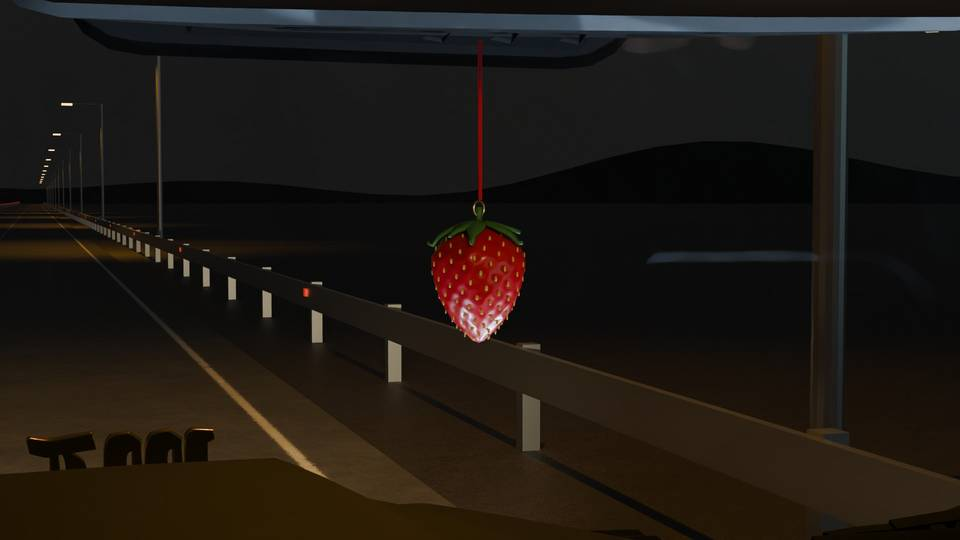
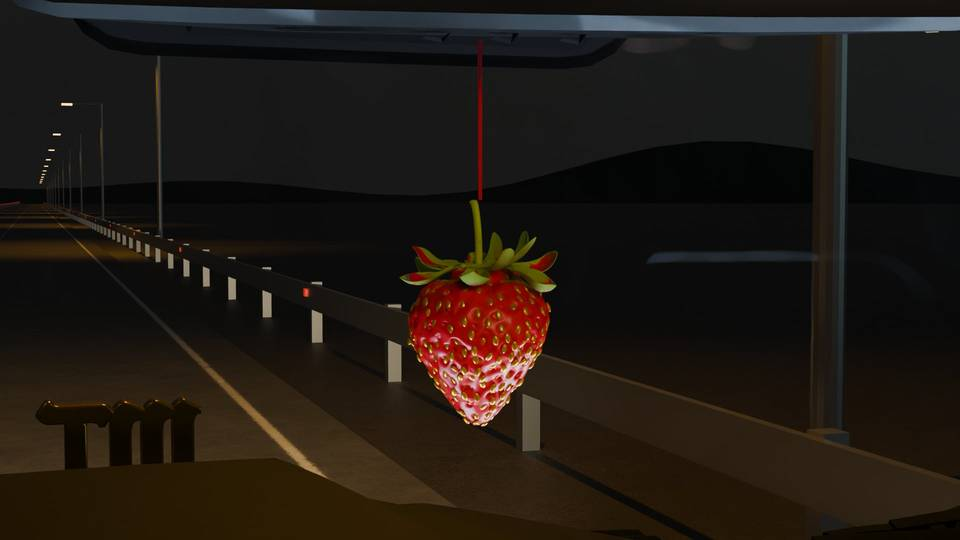
docs(utileria): página y stills con la fresa B y el MT en Pirata One
Stills finales de la escena 1, 4, 6, la barra, el emblema y la fresa con los
defaults del dueño (fresa B, Pirata One de 21.5 cm), medidas.tsv y la página
(scripts/props-hoja.py ahora genera también las hojas de la pasada 2: emblema
tamaño x letra y fresa con semillas 3D). Se quitan de la página las variantes
de fresa de la ronda 1.

La excepción de la regla 1 en la escena 1 (2.17 % del camino, 5 px sobre el 2 %)
queda escrita con las palabras del dueño en la página, props.md y
docs/fresa-semillas.md, con la pasada 2 de las semillas y sus comandos.

Claude-Session: https://claude.ai/code/session_01JDrAz8p1av2rw8yZkgwU9G

Changed region(s): [[0.4062, 0.3556, 0.5938, 0.8], [0.0312, 0.7407, 0.2188, 0.8889]]

diff --git a/docs/design/props-placement/index.html b/docs/design/props-placement/index.html
@@ -21,12 +21,8 @@ dt { font-weight:600; color:var(--fg); } dd { margin:0; }
 imagen abre el still completo (1920×1080, 64 muestras, de noche). Los números salen de una sonda por rayos desde la cámara de cada
 escena (<code>scripts/props-medir.py</code>); el look se juzga en los stills. Reglas: <a href="reglas.md">reglas.md</a>; props:
 <a href="props.md">props.md</a>; fotos: <a href="referencias.md">referencias.md</a>.</p>
-<section id="escenas"><h2>Las cuatro escenas con lo elegido (B)</h2><p>B en todas las escenas, sin marquesina, sin cuernos; en el camión las lámparas reales del alerón y el MT dorado en el cofre. La luz bajo la carrocería sigue ámbar. Montón de la caja: caja3 A (#34 sigue abierta). Escena 4 con la luz de relleno (sigue abierta).</p><div class="fila"><figure><a href="stills/pp1-b.jpg"><img src="mini/pp1-b.jpg" alt="Escena 1 · Cabina (MÚSICA)" width="960" height="540" loading="lazy"></a><figcaption><strong>Escena 1 · Cabina (MÚSICA)</strong><dl><dt>Regla 1 · zona tapada</dt><dd>0.79 % · PASS</dd><dt>Reglas 2-3 · props que se leen</dt><dd>1 (P3) · PASS</dd><dt>Regla 4 · luz total: zona vs prop con luz</dt><dd>22.2 vs nan · n/a</dd></dl></figcaption></figure><figure><a href="stills/pp2-b.jpg"><img src="mini/pp2-b.jpg" alt="Escena 2 · Caja (REDES)" width="960" height="540" loading="lazy"></a><figcaption><strong>Escena 2 · Caja (REDES)</strong><dl><dt>Regla 1 · zona tapada</dt><dd>0.0 % · PASS</dd><dt>Reglas 2-3 · props que se leen</dt><dd>1 (P9) · PASS</dd><dt>Regla 4 · luz total: zona vs prop con luz</dt><dd>223.9 vs 54.0 · PASS</dd></dl></figcaption></figure><figure><a href="stills/pp4-b.jpg"><img src="mini/pp4-b.jpg" alt="Escena 4 · Costado (LA BANDA)" width="960" height="540" loading="lazy"></a><figcaption><strong>Escena 4 · Costado (LA BANDA)</strong><dl><dt>Regla 1 · zona tapada</dt><dd>0.0 % · PASS</dd><dt>Reglas 2-3 · props que se leen</dt><dd>3 (P1,P7,P9) · PASS</dd><dt>Regla 4 · luz total: zona vs prop con luz</dt><dd>57.5 vs 23.1 · PASS</dd></dl></figcaption></figure><figure><a href="stills/pp6-b.jpg"><img src="mini/pp6-b.jpg" alt="Escena 6 · Placa (CONTRATACIÓN)" width="960" height="540" loading="lazy"></a><figcaption><strong>Escena 6 · Placa (CONTRATACIÓN)</strong><dl><dt>Regla 1 · zona tapada</dt><dd>0.0 % · PASS</dd><dt>Reglas 2-3 · props que se leen</dt><dd>2 (P1,P2) · PASS</dd><dt>Regla 4 · luz total: zona vs prop con luz</dt><dd>45.4 vs 10.4 · PASS</dd></dl></figcaption></figure></div></section><section id="barra"><h2>Barra de luces: la pieza real</h2><p>El G 63 AMG 6×6 de fábrica lleva una lámpara LED en cada esquina del alerón del techo: mica clara sobre caja negra con cinco copas redondas (fotos 12b y 12c en referencias.md). El modelo del camión ya tiene esas dos cavidades, apagadas; aquí se llenan y se encienden en blanco, con su haz hacia el camino. Al lado, la otra lectura: la barra de dos pisos del Brabus XLP 800 6×6 (foto 12), que es una pieza del G nuevo (W465), no de este camión.</p><div class="fila"><figure><a href="stills/pp-barra.jpg"><img src="mini/pp-barra.jpg" alt="Se queda · lámparas de fábrica del 6×6" width="960" height="540" loading="lazy"></a><figcaption><strong>Se queda · lámparas de fábrica del 6×6</strong></figcaption></figure><figure><a href="stills/pv-barra-xlp.jpg"><img src="mini/pv-barra-xlp.jpg" alt="Variante · dos pisos estilo Brabus XLP 800" width="960" height="540" loading="lazy"></a><figcaption><strong>Variante · dos pisos estilo Brabus XLP 800</strong></figcaption></figure><figure><a href="stills/pv-6-xlp.jpg"><img src="mini/pv-6-xlp.jpg" alt="Variante XLP en la escena 6 (para la regla 4)" width="960" height="540" loading="lazy"></a><figcaption><strong>Variante XLP en la escena 6 (para la regla 4)</strong><dl><dt>Regla 1 · zona tapada</dt><dd>0.0 % · PASS</dd><dt>Reglas 2-3 · props que se leen</dt><dd>2 (P1,P2) · PASS</dd><dt>Regla 4 · luz total: zona vs prop con luz</dt><dd>45.4 vs 59.0 · FAIL</dd></dl></figcaption></figure></div></section><section id="emblema"><h2>Emblema MT dorado en el cofre</h2><p>Letra gótica Grenze Gotisch ExtraBold (licencia OFL, libre), extruida y biselada, en el oro de la marca (DESIGN.md, oklch 78 % 0.15 85) como metal pulido. En vez de los cuernos.</p><div class="fila"><figure><a href="stills/pp-emblema.jpg"><img src="mini/pp-emblema.jpg" alt="Se queda · de pie, atornillado al frente del cofre" width="960" height="540" loading="lazy"></a><figcaption><strong>Se queda · de pie, atornillado al frente del cofre</strong></figcaption></figure><figure><a href="stills/pv-emblema-plano.jpg"><img src="mini/pv-emblema-plano.jpg" alt="Variante · plano sobre el cofre" width="960" height="540" loading="lazy"></a><figcaption><strong>Variante · plano sobre el cofre</strong></figcaption></figure></div></section><section id="fresa"><h2>La fresa del espejo</h2><p>Un solo archivo intercambiable: blender/props/fresa.glb (Z arriba, metros, origen en la argolla). Si llega un modelo de un amigo, se reemplaza ese archivo y el script lo escala a 4.1 cm.</p><div class="fila"><figure><a href="stills/pp-fresa.jpg"><img src="mini/pp-fresa.jpg" alt="Se queda · fruta (semillas en hoyuelos, cáliz, barniz)" width="960" height="540" loading="lazy"></a><figcaption><strong>Se queda · fruta (semillas en hoyuelos, cáliz, barniz)</strong></figcaption></figure><figure><a href="stills/pv-fresa-resina.jpg"><img src="mini/pv-fresa-resina.jpg" alt="Variante · resina con oro" width="960" height="540" loading="lazy"></a><figcaption><strong>Variante · resina con oro</strong></figcaption></figure><figure><a href="stills/pv-fresa-peluche.jpg"><img src="mini/pv-fresa-peluche.jpg" alt="Variante · peluche de fieltro" width="960" height="540" loading="lazy"></a><figcaption><strong>Variante · peluche de fieltro</strong></figcaption></figure><figure><a href="stills/fresa-estudio.jpg"><img src="mini/fresa-estudio.jpg" alt="Las tres en estudio" width="960" height="400" loading="lazy"></a><figcaption><strong>Las tres en estudio</strong></figcaption></figure></div></section>
-<section id="preguntas"><h2>Preguntas abiertas</h2><ol>
-<li>Emblema: (a) de pie, del tamaño actual (letras de unos 14 cm): en la escena 6 ocupa 0.088 % del cuadro, bajo la línea de 0.1 % de la regla 2, así que ahí se ve como un brillo dorado y se lee en los detalles; (b) más grande, para que se lea en la escena 6 (letras de unos 18 cm, casi la mitad del ancho del cofre al frente); o (c) plano sobre el cofre (no se ve desde la cámara baja de la escena 6).</li>
-<li>Letra del emblema: (a) se queda Grenze Gotisch (su M mayúscula parece una m minúscula: se puede leer «mt») o (b) una gótica de mayúsculas más claras, como Pirata One (OFL, la de DESIGN.md).</li>
-<li>Fresa: (a) fruta, (b) resina con oro o (c) peluche; o se espera el modelo del amigo (se cambia un archivo).</li>
-</ol>
+<section id="escenas"><h2>Las cuatro escenas con lo elegido (B)</h2><p>B en todas las escenas, sin marquesina, sin cuernos; en el camión las lámparas reales del alerón y el MT dorado en el cofre. La luz bajo la carrocería sigue ámbar. Montón de la caja: caja3 A (#34 sigue abierta). Escena 4 con la luz de relleno (sigue abierta).</p><div class="fila"><figure><a href="stills/pp1-b.jpg"><img src="mini/pp1-b.jpg" alt="Escena 1 · Cabina (MÚSICA)" width="960" height="540" loading="lazy"></a><figcaption><strong>Escena 1 · Cabina (MÚSICA)</strong><dl><dt>Regla 1 · zona tapada</dt><dd>2.17 % · FAIL</dd><dt>Reglas 2-3 · props que se leen</dt><dd>1 (P3) · PASS</dd><dt>Regla 4 · luz total: zona vs prop con luz</dt><dd>22.2 vs nan · n/a</dd></dl></figcaption></figure><figure><a href="stills/pp2-b.jpg"><img src="mini/pp2-b.jpg" alt="Escena 2 · Caja (REDES)" width="960" height="540" loading="lazy"></a><figcaption><strong>Escena 2 · Caja (REDES)</strong><dl><dt>Regla 1 · zona tapada</dt><dd>0.0 % · PASS</dd><dt>Reglas 2-3 · props que se leen</dt><dd>1 (P9) · PASS</dd><dt>Regla 4 · luz total: zona vs prop con luz</dt><dd>223.9 vs 54.0 · PASS</dd></dl></figcaption></figure><figure><a href="stills/pp4-b.jpg"><img src="mini/pp4-b.jpg" alt="Escena 4 · Costado (LA BANDA)" width="960" height="540" loading="lazy"></a><figcaption><strong>Escena 4 · Costado (LA BANDA)</strong><dl><dt>Regla 1 · zona tapada</dt><dd>0.0 % · PASS</dd><dt>Reglas 2-3 · props que se leen</dt><dd>3 (P1,P7,P9) · PASS</dd><dt>Regla 4 · luz total: zona vs prop con luz</dt><dd>57.5 vs 23.1 · PASS</dd></dl></figcaption></figure><figure><a href="stills/pp6-b.jpg"><img src="mini/pp6-b.jpg" alt="Escena 6 · Placa (CONTRATACIÓN)" width="960" height="540" loading="lazy"></a><figcaption><strong>Escena 6 · Placa (CONTRATACIÓN)</strong><dl><dt>Regla 1 · zona tapada</dt><dd>0.0 % · PASS</dd><dt>Reglas 2-3 · props que se leen</dt><dd>3 (P1,P15,P2) · PASS</dd><dt>Regla 4 · luz total: zona vs prop con luz</dt><dd>45.4 vs 10.4 · PASS</dd></dl></figcaption></figure></div></section><section id="barra"><h2>Barra de luces: la pieza real</h2><p>El G 63 AMG 6×6 de fábrica lleva una lámpara LED en cada esquina del alerón del techo: mica clara sobre caja negra con cinco copas redondas (fotos 12b y 12c en referencias.md). El modelo del camión ya tiene esas dos cavidades, apagadas; aquí se llenan y se encienden en blanco, con su haz hacia el camino. Al lado, la otra lectura: la barra de dos pisos del Brabus XLP 800 6×6 (foto 12), que es una pieza del G nuevo (W465), no de este camión.</p><div class="fila"><figure><a href="stills/pp-barra.jpg"><img src="mini/pp-barra.jpg" alt="Se queda · lámparas de fábrica del 6×6" width="960" height="540" loading="lazy"></a><figcaption><strong>Se queda · lámparas de fábrica del 6×6</strong></figcaption></figure><figure><a href="stills/pv-barra-xlp.jpg"><img src="mini/pv-barra-xlp.jpg" alt="Variante · dos pisos estilo Brabus XLP 800" width="960" height="540" loading="lazy"></a><figcaption><strong>Variante · dos pisos estilo Brabus XLP 800</strong></figcaption></figure><figure><a href="stills/pv-6-xlp.jpg"><img src="mini/pv-6-xlp.jpg" alt="Variante XLP en la escena 6 (para la regla 4)" width="960" height="540" loading="lazy"></a><figcaption><strong>Variante XLP en la escena 6 (para la regla 4)</strong><dl><dt>Regla 1 · zona tapada</dt><dd>0.0 % · PASS</dd><dt>Reglas 2-3 · props que se leen</dt><dd>3 (P1,P15,P2) · PASS</dd><dt>Regla 4 · luz total: zona vs prop con luz</dt><dd>45.4 vs 58.9 · FAIL</dd></dl></figcaption></figure></div></section><section id="emblema"><h2>Emblema MT dorado en el cofre</h2><p>Letra gótica Pirata One (licencia OFL, libre; elegida por el dueño el 14 nov), de pie con letras de 21.5 cm de alto, extruida y biselada, en el oro de la marca (DESIGN.md, oklch 78 % 0.15 85) como metal pulido. En vez de los cuernos. A 21.5 cm ocupa 0.100 % del cuadro en la escena 6, justo en la línea de 0.1 % de la regla 2 (a 14 y 18 cm, Pirata One no la alcanza). Costo: desde la cabina (escena 1) el emblema cubre 2.17 % del camino, 5 px sobre el 2 % de la regla 1; el dueño aceptó esa excepción: «A, go with 21.5 cm».</p><div class="fila"><figure><a href="stills/pp-emblema.jpg"><img src="mini/pp-emblema.jpg" alt="Se queda · Pirata One de pie, atornillado al frente del cofre" width="960" height="540" loading="lazy"></a><figcaption><strong>Se queda · Pirata One de pie, atornillado al frente del cofre</strong></figcaption></figure><figure><a href="stills/pv-emblema-plano.jpg"><img src="mini/pv-emblema-plano.jpg" alt="Variante · plano sobre el cofre" width="960" height="540" loading="lazy"></a><figcaption><strong>Variante · plano sobre el cofre</strong></figcaption></figure></div></section><section id="fresa"><h2>La fresa del espejo</h2><p>La fresa del modelo del amigo con semillas doradas en 3D (variante B de la pasada 2, elegida por el dueño el 14 nov): su malla y sus texturas, intactas, y el cuerpo escalado a 4.1 cm. Un solo archivo intercambiable: blender/props/strawberry-s2-oro.glb (Z arriba, metros, origen en el tallo); el script lo escala con PP_FRESA_ALTO (0.0647 para este modelo).</p><div class="fila"><figure><a href="stills/pp-fresa.jpg"><img src="mini/pp-fresa.jpg" alt="Se queda · fresa del amigo con semillas doradas" width="960" height="540" loading="lazy"></a><figcaption><strong>Se queda · fresa del amigo con semillas doradas</strong></figcaption></figure></div></section><section id="emblema-2"><h2>Emblema MT: tamaño y letra (pasada 2)</h2><p>Seis tomas de la misma cámara 3/4 sobre el cofre (tres tamaños por dos letras, misma altura de mayúscula en las dos letras) y, debajo, lo que hace cada una en la cámara baja de la escena 6. La M de Grenze Gotisch se parece a una «m» minúscula; la de Pirata One es una mayúscula clara, pero más angosta. Ahí solo 18 cm en Grenze supera la línea de 0.1 % de la regla 2 (0.151 %; Pirata One a 18 cm queda en 0.087 %); el plano es un filo de 0.01 %. El dueño eligió Pirata One y se subió a 21.5 cm (0.100 %); esa hoja es de antes del cambio.</p><div class="fila"><figure><a href="lado-a-lado/emblema-2.jpg"><img src="mini/emblema-2.jpg" alt="Emblema MT: 3 tamaños por 2 letras, y la escena 6" width="1500" height="1388" loading="lazy"></a><figcaption><strong>Hoja del emblema</strong> · abre la hoja completa (2480 px de ancho)</figcaption></figure></div></section><section id="fresa-semillas-2"><h2>La fresa del amigo con semillas 3D (pasada 2)</h2><p>Se escala la fresa para que el cuerpo mida 4.1 cm (antes 2.6 cm) y se prueban semillas más grandes, doradas y a tres alturas sobre el hoyuelo. Se queda B (oro satinado, el doble de tamaño, un tercio enterradas, 278 semillas). En la cámara real de la escena 1 la fresa mide unos 38 × 46 px: ninguna variante se lee como semillas separadas (de 5 a 9 manchas separadas de 3 px o más, hacen falta 25), se lee como un punteado dorado; de cerca todas se leen. La luz de la cabina sigue lavando la mitad de abajo.</p><div class="fila"><figure><a href="lado-a-lado/fresa-semillas-2.jpg"><img src="mini/fresa-semillas-2.jpg" alt="Fresa con semillas 3D: pase 1 y variantes" width="1500" height="1062" loading="lazy"></a><figcaption><strong>Hoja de la fresa</strong> · pase 1 y variantes A a F · abre la hoja completa (2438 px de ancho)</figcaption></figure></div></section>
+<section id="preguntas"><h2>Resuelto el 14 nov y lo que sigue abierto</h2><p>El dueño eligió la fresa B (la del amigo con semillas doradas) y la letra Pirata One para el emblema; el tamaño lo eligió después: «A, go with 21.5 cm» (de pie, letras de 21.5 cm): pasa la regla 2 en la escena 6 (0.100 %) y falla por 5 px la regla 1 en la escena 1 (2.17 % del camino contra 2 %), una excepción aceptada por el dueño.</p>
 <p>Ya resuelta (13 nov): la barra de luces son las lámparas de fábrica del 6×6, no la de dos pisos estilo Brabus.</p>
 <p>Siguen abiertas, sin decidir aquí: #33 (escena 3, espejo o puerta trasera), #34 (acomodo de la caja) y la luz de la escena 4.</p></section>
 </main></body></html>

diff --git a/scripts/props-hoja.py b/scripts/props-hoja.py
@@ -30,14 +30,16 @@ SECCIONES = [
      [("pp-barra", "Se queda · lámparas de fábrica del 6×6"), ("pv-barra-xlp", "Variante · dos pisos estilo Brabus XLP 800"),
       ("pv-6-xlp", "Variante XLP en la escena 6 (para la regla 4)")]),
     ("emblema", "Emblema MT dorado en el cofre",
-     "Letra gótica Grenze Gotisch ExtraBold (licencia OFL, libre), extruida y biselada, en el oro de la marca (DESIGN.md, "
-     "oklch 78 % 0.15 85) como metal pulido. En vez de los cuernos.",
-     [("pp-emblema", "Se queda · de pie, atornillado al frente del cofre"), ("pv-emblema-plano", "Variante · plano sobre el cofre")]),
+     "Letra gótica Pirata One (licencia OFL, libre; elegida por el dueño el 14 nov), de pie con letras de 21.5 cm de alto, extruida y "
+     "biselada, en el oro de la marca (DESIGN.md, oklch 78 % 0.15 85) como metal pulido. En vez de los cuernos. A 21.5 cm ocupa "
+     "0.100 % del cuadro en la escena 6, justo en la línea de 0.1 % de la regla 2 (a 14 y 18 cm, Pirata One no la alcanza). Costo: "
+     "desde la cabina (escena 1) el emblema cubre 2.17 % del camino, 5 px sobre el 2 % de la regla 1; el dueño aceptó esa excepción: «A, go with 21.5 cm».",
+     [("pp-emblema", "Se queda · Pirata One de pie, atornillado al frente del cofre"), ("pv-emblema-plano", "Variante · plano sobre el cofre")]),
     ("fresa", "La fresa del espejo",
-     "Un solo archivo intercambiable: blender/props/fresa.glb (Z arriba, metros, origen en la argolla). Si llega un modelo de un "
-     "amigo, se reemplaza ese archivo y el script lo escala a 4.1 cm.",
-     [("pp-fresa", "Se queda · fruta (semillas en hoyuelos, cáliz, barniz)"), ("pv-fresa-resina", "Variante · resina con oro"),
-      ("pv-fresa-peluche", "Variante · peluche de fieltro"), ("fresa-estudio", "Las tres en estudio")]),
+     "La fresa del modelo del amigo con semillas doradas en 3D (variante B de la pasada 2, elegida por el dueño el 14 nov): su malla y "
+     "sus texturas, intactas, y el cuerpo escalado a 4.1 cm. Un solo archivo intercambiable: blender/props/strawberry-s2-oro.glb "
+     "(Z arriba, metros, origen en el tallo); el script lo escala con PP_FRESA_ALTO (0.0647 para este modelo).",
+     [("pp-fresa", "Se queda · fresa del amigo con semillas doradas")]),
 ]
 
 
@@ -81,6 +83,23 @@ for sid, titulo, nota, tomas in SECCIONES:
         tira.save(LADO / f"{sid}.jpg", quality=80)
     secciones.append(f'<section id="{sid}"><h2>{html.escape(titulo)}</h2><p>{html.escape(nota)}</p><div class="fila">{"".join(figs)}</div></section>')
 
+HOJAS = (
+    '<section id="emblema-2"><h2>Emblema MT: tamaño y letra (pasada 2)</h2><p>Seis tomas de la misma cámara 3/4 sobre el cofre (tres tamaños '
+    'por dos letras, misma altura de mayúscula en las dos letras) y, debajo, lo que hace cada una en la cámara baja de la escena 6. La M de '
+    'Grenze Gotisch se parece a una «m» minúscula; la de Pirata One es una mayúscula clara, pero más angosta. Ahí solo 18 cm en Grenze '
+    'supera la línea de 0.1 % de la regla 2 (0.151 %; Pirata One a 18 cm queda en 0.087 %); el plano es un filo de 0.01 %. El dueño eligió '
+    'Pirata One y se subió a 21.5 cm (0.100 %); esa hoja es de antes del cambio.</p><div class="fila"><figure><a href="lado-a-lado/emblema-2.jpg">'
+    '<img src="mini/emblema-2.jpg" alt="Emblema MT: 3 tamaños por 2 letras, y la escena 6" width="1500" height="1388" loading="lazy"></a>'
+    '<figcaption><strong>Hoja del emblema</strong> · abre la hoja completa (2480 px de ancho)</figcaption></figure></div></section>'
+    '<section id="fresa-semillas-2"><h2>La fresa del amigo con semillas 3D (pasada 2)</h2><p>Se escala la fresa para que el cuerpo mida 4.1 cm '
+    '(antes 2.6 cm) y se prueban semillas más grandes, doradas y a tres alturas sobre el hoyuelo. Se queda B (oro satinado, el doble de '
+    'tamaño, un tercio enterradas, 278 semillas). En la cámara real de la escena 1 la fresa mide unos 38 × 46 px: ninguna variante se lee '
+    'como semillas separadas (de 5 a 9 manchas separadas de 3 px o más, hacen falta 25), se lee como un punteado dorado; de cerca todas se '
+    'leen. La luz de la cabina sigue lavando la mitad de abajo.</p><div class="fila"><figure><a href="lado-a-lado/fresa-semillas-2.jpg">'
+    '<img src="mini/fresa-semillas-2.jpg" alt="Fresa con semillas 3D: pase 1 y variantes" width="1500" height="1062" loading="lazy"></a>'
+    '<figcaption><strong>Hoja de la fresa</strong> · pase 1 y variantes A a F · abre la hoja completa (2438 px de ancho)</figcaption>'
+    '</figure></div></section>')
+
 pagina = f"""<!doctype html>
 <html lang="es"><head><meta charset="utf-8"><meta name="viewport" content="width=device-width, initial-scale=1">
 <title>Utilería: lo elegido</title>
@@ -104,12 +123,8 @@ dt {{ font-weight:600; color:var(--fg); }} dd {{ margin:0; }}
 imagen abre el still completo (1920×1080, 64 muestras, de noche). Los números salen de una sonda por rayos desde la cámara de cada
 escena (<code>scripts/props-medir.py</code>); el look se juzga en los stills. Reglas: <a href="reglas.md">reglas.md</a>; props:
 <a href="props.md">props.md</a>; fotos: <a href="referencias.md">referencias.md</a>.</p>
-{''.join(secciones)}
-<section id="preguntas"><h2>Preguntas abiertas</h2><ol>
-<li>Emblema: (a) de pie, del tamaño actual (letras de unos 14 cm): en la escena 6 ocupa 0.088 % del cuadro, bajo la línea de 0.1 % de la regla 2, así que ahí se ve como un brillo dorado y se lee en los detalles; (b) más grande, para que se lea en la escena 6 (letras de unos 18 cm, casi la mitad del ancho del cofre al frente); o (c) plano sobre el cofre (no se ve desde la cámara baja de la escena 6).</li>
-<li>Letra del emblema: (a) se queda Grenze Gotisch (su M mayúscula parece una m minúscula: se puede leer «mt») o (b) una gótica de mayúsculas más claras, como Pirata One (OFL, la de DESIGN.md).</li>
-<li>Fresa: (a) fruta, (b) resina con oro o (c) peluche; o se espera el modelo del amigo (se cambia un archivo).</li>
-</ol>
+{''.join(secciones)}{HOJAS}
+<section id="preguntas"><h2>Resuelto el 14 nov y lo que sigue abierto</h2><p>El dueño eligió la fresa B (la del amigo con semillas doradas) y la letra Pirata One para el emblema; el tamaño lo eligió después: «A, go with 21.5 cm» (de pie, letras de 21.5 cm): pasa la regla 2 en la escena 6 (0.100 %) y falla por 5 px la regla 1 en la escena 1 (2.17 % del camino contra 2 %), una excepción aceptada por el dueño.</p>
 <p>Ya resuelta (13 nov): la barra de luces son las lámparas de fábrica del 6×6, no la de dos pisos estilo Brabus.</p>
 <p>Siguen abiertas, sin decidir aquí: #33 (escena 3, espejo o puerta trasera), #34 (acomodo de la caja) y la luz de la escena 4.</p></section>
 </main></body></html>

diff --git a/docs/fresa-semillas.md b/docs/fresa-semillas.md
@@ -1,0 +1,124 @@
+# Yellow seeds on the friend's strawberry (2026-11-14, run `uncdrone`)
+
+Brief: mothership `docs/queue/2026-11-14-mto-strawberry-seeds.md`. The friend's Tripo model (`C:\Users\black\Downloads\strawberry.glb`,
+untouched) is copied to `blender/props/strawberry.glb`. It replaces the strawberry options of props pass 2 (board #36).
+Sheet for the owner's pick: `E:\Cursor Projects\MTO-uncdrone\docs\design\props-placement\lado-a-lado\fresa-semillas.jpg`.
+
+## What was made
+- **One seed list, 336 seeds**: 242 in the model's own pits plus 94 fill seeds where the gap is over 4.5 % of the model height.
+  The spacing grows ×1.8 toward the calyx, and there are no seeds within 2–3 % of a green texel. Pits are geometry: they
+  survive with the normal map off. To find them, `semillas.py` welds the vertices, smooths a copy (150 Laplacian passes),
+  takes h = offset along the normal, and puts one seed per connected patch with h < −0.0025, at the depth-weighted centre.
+- **(a) painted**, `blender/props/strawberry-a-pintada.glb`: yellow ellipses in the base colour plus a dome bump in the
+  normal map, painted by 3D distance to each seed so a dot that crosses a UV seam stays whole. 3.35 % of the colour texels
+  change, all of them inside seeds. The mesh and rm map are byte-identical. The colour map is pixel-identical outside the seeds,
+  but it is now stored as a PNG instead of the friend's JPEG (both changed maps are PNG), so the GLB grows from 19.8 to 28 MB. Bump sign +1 = raised, checked under a top light (`estudio.py … rasante`).
+- **(b) geometry**, `blender/props/strawberry-b-semillas.glb`: one extra mesh of 336 ellipsoids (about 1 mm at scene scale).
+  Each is sunk about a third into its pit and tilted up to 12° at random. Every original bufferView is byte-identical.
+- Checks: `semillas_verif.py` (bytes and texels); `revisar.sh` on `pp-fresa` and `pp1-b` against the original, full frame and a
+  200 px crop of `pp1-b`: 0 FAIL, colour dE ≤ 0.03 outside the berry.
+
+## What the owner should know
+- **At scene scale the seeds are sub-pixel.** In `pp1-b` (scene 1 camera) the berry is about 25 px tall. Measured on a
+  200 px box around it against the original: 45 px (a) and 77 px (b) change by dE76 > 10 (max 27 and 31). That is a
+  speckle or warm tint over the berry, not separate dots (whether dots read there is not verified). Full-frame revisar
+  hides it, because its 0.01 % region floor (207 px) is about the berry's whole size. In the `pp-fresa` close-up: 2791 px (a)
+  and 7363 px (b) change by dE > 10.
+- The friend's colour map already has faint orange specks in some pits; (a) paints over them only where a seed lands.
+- Scale: `_fresa_mallas` fits ring top to tip to 4.1 cm. This model has no ring and a long stem, so its body comes out about
+  2.6 cm tall, smaller than the procedural charm's. It was not rescaled, because that is outside this brief.
+- In the cab light the lower half of the berry washes pink-white in all three versions (scene lighting, not the seeds).
+
+## Re-run
+```sh
+cd blender/tripo
+R="uv run -q --with numpy --with scipy --with pillow --with opencv-python-headless python -I"
+$R semillas.py ../props/strawberry.glb ../../tmp/fresa-semillas 400 0.045           # -> semillas.npz (336)
+$R semillas_glb.py ../props/strawberry.glb ../../tmp/fresa-semillas/semillas.npz \
+   ../props/strawberry-a-pintada.glb ../props/strawberry-b-semillas.glb
+$R semillas_verif.py ../props/strawberry.glb ../props/strawberry-a-pintada.glb ../props/strawberry-b-semillas.glb
+/mnt/e/Blender/blender.exe -b --factory-startup --python "$(wslpath -w estudio.py)" -- <glb (Windows)> <out prefix> 1000 128
+# in scene (the .exe needs WSLENV to see PP_FRESA):
+WSLENV=PP_FRESA/p PP_FRESA="$PWD/../props/<glb>" /mnt/e/Blender/blender.exe -b --factory-startup --python-exit-code 1 \
+  --python "$(wslpath -w ../props_placement.py)" -- "$(wslpath -w "/mnt/e/Cursor Projects/MTO/blender/escena.py")" <out dir> 64 pp-fresa,pp1-b 1920x1080
+$R semillas_hoja.py ../../tmp/fresa-semillas/escena ../../tmp/fresa-semillas/hoja-semillas.png 336
+```
+
+# Pass 2 (2026-11-14, run `uncdrone`): rescale, bigger gold seeds, emblem sheet
+
+Brief: mothership `docs/queue/2026-11-14-mto-strawberry-seeds-pass2-emblem-sheet.md`. Sheets: `docs/design/props-placement/lado-a-lado/fresa-semillas-2.jpg`
+and `emblema-2.jpg`, both on `docs/design/props-placement/index.html` (#fresa-semillas-2, #emblema-2).
+
+## Strawberry
+- **Rescale.** The model's body (tip to calyx base, y 0 to about 0.64 of the mesh height) is now 4.1 cm: `PP_FRESA_ALTO=0.0647`
+  sets the whole mesh height (stem included) in `props_placement.py` and `tripo/estudio.py` (default stays 0.041). The GLB is not
+  touched. Measured: the charm's share of scene 1's frame 0.010 % to 0.025 %, of the close-up 1.68 % to 3.97 %.
+- **Seeds.** `tripo/semillas2_glb.py` writes a seed mesh from pass 1's seed list: size, sink and colour are arguments, and seeds
+  closer than `min_gap` to a kept one are dropped so the bigger ones do not fuse. Every original bufferView is byte-identical
+  (`semillas_verif.py`, run on all four variants); `blender/props/strawberry.glb` is still byte-equal to the friend's `Downloads\strawberry.glb` (cmp).
+- Variants (all in `blender/props/`): A `s2-amarilla` (yellow x2, 278 seeds), **B `s2-oro` (satin gold x2, 278, a third buried: kept)**,
+  E `s2-oro-hundida` (B half buried), F `s2-oro-alta` (B sitting proud on the pit), C `s3-oro` (gold x3, 161), D `s4-oro` (gold x4, 97).
+  Sink is the seed centre's height above the pit floor: 0.003 for A and B, 0.0045 for C, 0.006 for D (proportional to size, as pass 1's
+  0.0015), 0 for E and 0.006 for F. Gold = metallic 0.55, roughness 0.32, centre (236,178,38) sRGB.
+- **Why B:** the seeds in the studio and in the close-up look like achenes, and the gold has a sheen; C and D look armoured, and at
+  x3-x4 the berry reads as a different fruit. At scene 1 the variants are within a few pixels of each other (below), so size
+  buys nothing there that justifies the cartoon. Sink moves the gold pixel mass at scene 1 (E 134, B 176, F 235): F is the swap if
+  the owner wants more gold at the scene camera.
+- **Measured** (`tripo/semillas2_medir.py`, 200 px box around the berry at scene 1, 560 px at the close-up; a seed blob is
+  gold-hued, dE76 > 10 against the unseeded berry, >= 3 px; readable = dE >= 15 against its own ring; "reads" = >= 25 readable):
+
+  | variant | scene 1: gold px / blobs / readable | close-up: blobs / readable (lower half) |
+  |---|---|---|
+  | pass 1 (x1 yellow) | 19 / 2 / 0 | 164 / 134 (81) |
+  | A yellow x2 | 216 / 5 / 3 | 156 / 125 (73) |
+  | B gold x2 | 176 / 7 / 6 | 169 / 121 (75) |
+  | E = B half buried | 134 / 9 / 2 | 166 / 129 (77) |
+  | F = B proud | 235 / 7 / 3 | 170 / 121 (70) |
+  | C gold x3 | 252 / 7 / 5 | 124 / 78 (39) |
+  | D gold x4 | 224 / 9 / 5 | 97 / 57 (25) |
+
+  At scene 1 the berry is about 38 x 46 px (revisar's changed region), 1.1 px/mm: a 3.6 x 2.3 mm seed is 4 x 2.5 px and the
+  neighbours are 5 px away, so seeds merge. No variant reads as separate seeds there; what reads is a gold freckling (10x more gold
+  pixels than pass 1). Closer cameras read separate seeds for every variant, including the washed lower half (for B, 75 of the 121
+  readable blobs sit in the lower half: gold keeps its contrast against the pink-white).
+- **The cab light** still washes the lower half pink-white. Left open: fixing it needs the shared cab light or a berry material
+  override, which this brief rules out. Gold seeds still read there (75 of B's 121 readable close-up blobs are in the lower half).
+- **Rule 1** (road through the windshield, <= 2 % covered by new props): scene 1 with the rescaled berry covers 1.19 % of it (30 of 2531
+  probe pixels) with or without seeds: PASS. Pass 1 had 0.67 %. The bigger berry plus its stem hangs lower; the cord was not shortened.
+- `revisar.sh` (B against pass 1 and against the unseeded berry, full frame and 200 px / 560 px crops; `tmp/fresa-semillas2/revisar/`):
+  0 FAIL at scene 1 (full frame and crop, both refs); color dE <= 0.10; changed region 0.02 % of the frame vs the unseeded berry
+  (38 x 46 px). The close-up crop FAILs sharpness (2.1-2.2 x) and halo (8-27 %): the seeds add edges and the berry is larger,
+  expected, not a defect.
+
+## Emblem
+- `props_placement.py`: `emblema(modo, fuente)` with modos `parado` (14.6 cm cap, as pass 1), `grande` (18.8 cm cap), `plano` (19.9 cm cap),
+  fuentes `grenze` and `pirata`, matched on the M's CAP height (Pirata One is much narrower: 14 cm tall letters are 19 cm wide
+  vs 33 cm in Grenze). Letters now sit on their baseline, plinth width follows the font. Pass 1's look is kept: `em6-parado-grenze`
+  = 0.088 % of scene 6's frame, the same as pass 1's `pp6-b`.
+- Options: `em-<modo>-<fuente>` (3/4 camera above the hood) and `em6-<modo>-<fuente>` (scene 6's low camera).
+  Pirata One: `blender/fuentes/PirataOne-400.ttf` (OFL, from @fontsource, woff2 to ttf with fontTools; licence beside it).
+- Scene 6's share of the frame: Grenze 14 cm 0.088 %, 18 cm 0.151 %, flat 0.008 %; Pirata 14 cm 0.060 %, 18 cm 0.087 %,
+  flat 0.010 %. Only 18 cm Grenze clears rule 2's 0.1 %; Pirata would need about 20 cm letters (area scaling, not rendered: not verified).
+
+## Re-run
+```sh
+cd blender/tripo
+R="uv run -q --with numpy --with scipy --with pillow --with opencv-python-headless python -I"
+$R semillas2_glb.py ../props/strawberry.glb ../../tmp/fresa-semillas/semillas.npz ../props/strawberry-s2-oro.glb 2.0 0.003 oro 0.040
+# scene renders: the rescale only happens with PP_FRESA_ALTO=0.0647 (default stays 0.041, so a plain re-render gives the 2.6 cm body); it needs WSLENV (see the pass-1 commands above), options pp-fresa,pp1-b
+$R semillas2_medir.py ../../tmp/fresa-semillas2/escena strawberry strawberry-b-semillas,strawberry-s2-amarilla,strawberry-s2-oro,strawberry-s3-oro,strawberry-s4-oro out.tsv
+$R semillas2_hoja.py <est dir> <escena dir> out.tsv fresa-semillas-2.jpg
+$R emblema_hoja.py <render dir with em-*, em6-*> emblema-2.jpg
+# scene 6 needs tmp/utileria/placa-veracruz.png first: uv run -q --with pillow --with qrcode python -I blender/placa_veracruz.py
+```
+
+## Owner's picks (2026-11-14) and the new defaults
+The owner picked seeds B and Pirata One for the emblem. A plain `props_placement.py` run now gives them: `FRESA_GLB` defaults to
+`blender/props/strawberry-s2-oro.glb` and `FRESA_ALTO` to 0.0647 (body 4.1 cm); `VAR` defaults to the standing Pirata One emblem
+(`CAP_MT["elegido"]`). Only `strawberry-s2-oro.glb` is tracked; the other variant GLBs and the friend's original stay untracked.
+`pv-fresa-resina` / `pv-fresa-peluche` still point at `tmp/fresa/*.glb` (4.1 cm total height) and would now come out 1.6x too large;
+they are dropped from the page.
+Rule 1 vs rule 2: no standing Pirata size passes both. Scene 6 needs >= 21.5 cm (0.100 %), and from 21.5 cm up the emblem covers
+25-33 px of scene 1's road zone, so the road coverage is 2.17-2.49 % against the 2 % limit (the rest of scene 1 covers 30 px = 1.19 %).
+A shorter cord (0.045 to 0 m: 63 px at 23 cm) or fringe (largo 0.025 to 0: 54 px = 2.13 %) does not fix it. The owner chose 21.5 cm on
+2026-11-14 ("A, go with 21.5 cm"): rule 2 passes at 0.100 %, rule 1 misses by 5 px (2.17 %), accepted as a judged exception.

diff --git a/docs/design/props-placement/props.md b/docs/design/props-placement/props.md
@@ -16,12 +16,16 @@ redone:
   x ±0.515–0.695 m, z 2.156–2.198 m, lamp faces at y ≤ 1.144 m), unlit; `barra_luces()` fills them (cups, a 60-strength die
   per cup, a lens, a 25 W spot per lamp aimed 14 m ahead). The owner confirmed this reading over the Brabus XLP 800 two-tier bar
   (`pv-barra-xlp`), which is a W465 part and failed rule 4 in scene 6.
-- **P5 strawberry** is one swappable file, `blender/props/fresa.glb`, built by `blender/fresa_charm.py` (styles fruta, resina,
-  peluche; fruta kept). Contract for a replacement: one .glb, Z up, metres, origin at the hang point, the charm hanging down -Z;
-  `props_placement.py` scales any model to 4.1 cm and hangs it from the mirror (`PP_FRESA=<path>` tries one without copying).
-- **P15 gold MT hood emblem** (replaces P14): Grenze Gotisch ExtraBold (OFL; `blender/fuentes/`), extruded and bevelled, brand
-  gold (DESIGN.md `--gold`, linear 0.768 0.426 0.021) as polished metal, standing bolted on a black plinth at the hood's front
-  edge. A flat badge (`pv-emblema-plano`) is edge-on from scene 6's low camera.
+- **P5 strawberry** is one swappable file. Owner pick 11-14: the friend's berry with gold 3D seeds,
+  `blender/props/strawberry-s2-oro.glb` (variant B of `docs/fresa-semillas.md` pass 2; the old procedural `fresa.glb` is no longer the
+  default). `props_placement.py` scales any model so its mesh is `PP_FRESA_ALTO` tall (default 0.0647: this berry has no ring and a
+  long stem, so its body is 4.1 cm; a ring-top-to-tip model wants 0.041) and hangs it from the mirror (`PP_FRESA=<path>` tries
+  another). Contract for a replacement: one .glb, Z up, metres, origin at the hang point, the charm hanging down -Z.
+- **P15 gold MT hood emblem** (replaces P14): owner pick 11-14: Pirata One (OFL; `blender/fuentes/`), standing, letters 21.5 cm tall (owner 11-14: "A, go with 21.5 cm"),
+  extruded and bevelled, brand gold (DESIGN.md `--gold`, linear 0.768 0.426 0.021) as polished metal, bolted on a black plinth at the
+  hood's front edge. Scene 6: 0.100 % of the frame (rule 2 asks 0.1 %; 14 cm gave 0.060 %, 18 cm 0.087 %, 20.5 cm 0.098 %). Judged exception
+  accepted by the owner: from the cab (scene 1) it covers 25 px of the road zone, so rule 1 reads 2.17 % against 2 % (23 cm would be 2.49 %). Grenze Gotisch ExtraBold (pass 1) and the other sizes stay as options `em-<modo>-<fuente>` / `em6-<modo>-<fuente>`.
+  A flat badge (`pv-emblema-plano`) is edge-on from scene 6's low camera.
 
 | # | Prop | Source | Scene · zone | Why it reads at that camera | Route · cost | In stills |
 |---|---|---|---|---|---|---|
